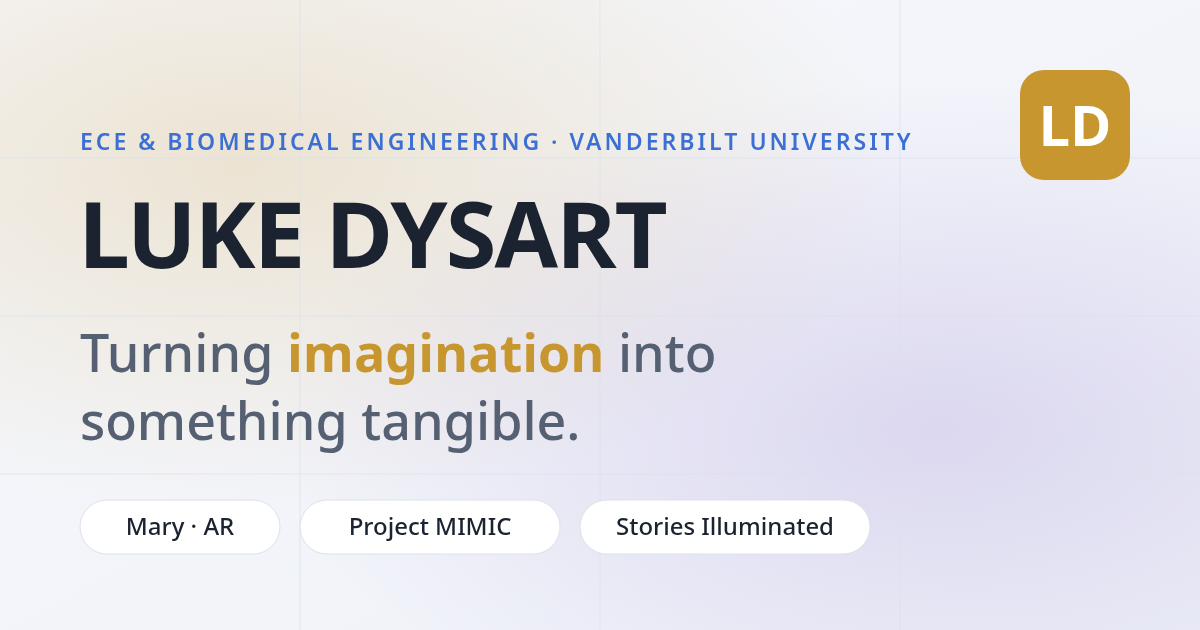
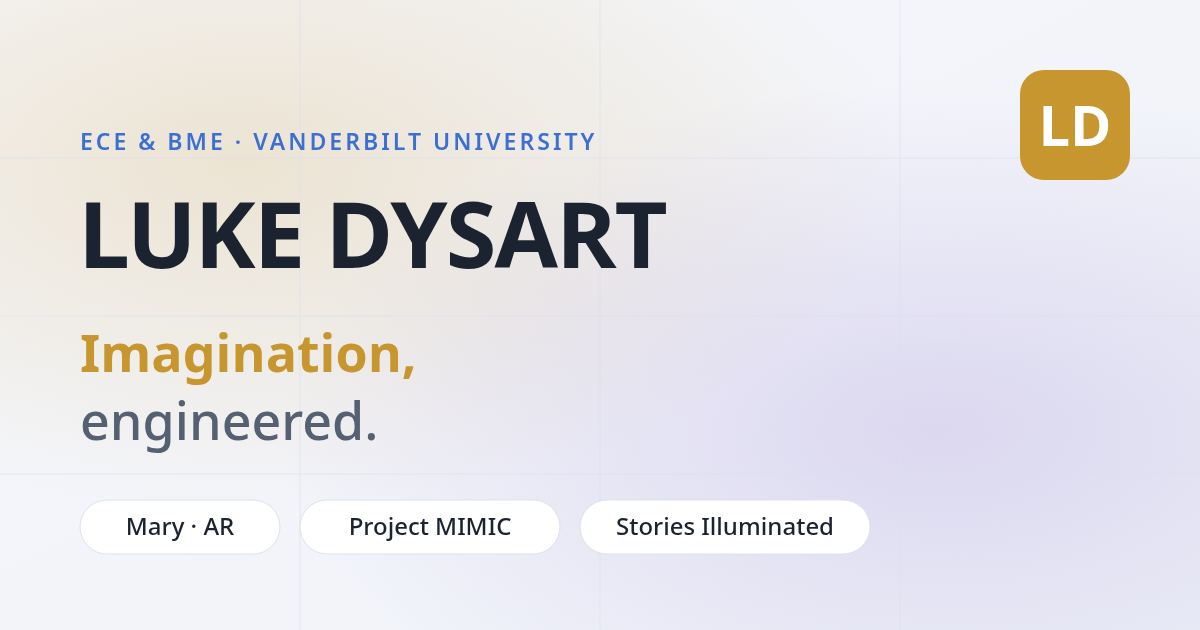
Copy: 'Imagination, engineered.' headline + 'ECE & BME' eyebrow
- Replace hero headline with 'Imagination, engineered.' (gold accent on
  'Imagination,'), updated in hero, social preview, and og:image:alt
- Tighten eyebrow to 'ECE & BME · Vanderbilt University' (consistent abbrev)
- Reword the About closing line away from the old tagline

Changed region(s): [[0.0617, 0.5127, 0.6167, 0.7238], [0.1542, 0.2111, 0.7708, 0.2413]]

diff --git a/index.html b/index.html
@@ -18,7 +18,7 @@
   <meta property="og:description" content="ECE & Biomedical Engineering at Vanderbilt, working at the intersection of art and engineering. Projects: Mary (offline medical AR), Project MIMIC (hand-mimicry robotics), Stories Illuminated." />
   <meta property="og:url" content="https://lukefdysart.github.io/Portfolio/" />
   <meta property="og:image" content="https://lukefdysart.github.io/Portfolio/assets/img/social-preview.png" />
-  <meta property="og:image:alt" content="Luke Dysart — turning imagination into something tangible." />
+  <meta property="og:image:alt" content="Luke Dysart — Imagination, engineered." />
   <meta name="twitter:card" content="summary_large_image" />
   <meta name="twitter:title" content="Luke Dysart — Engineering & Art" />
   <meta name="twitter:description" content="ECE & Biomedical Engineering at Vanderbilt — art + engineering. Mary, Project MIMIC, Stories Illuminated." />
@@ -59,9 +59,9 @@
   <section id="home" class="hero">
     <div class="hero-grid-bg"></div>
     <div class="container hero-inner">
-      <p class="hero-eyebrow">Electrical &amp; Computer · Biomedical Engineering · Vanderbilt University</p>
+      <p class="hero-eyebrow">ECE &amp; BME · Vanderbilt University</p>
       <h1 class="hero-title">
-        Turning <span class="accent">imagination</span><br />into something tangible.
+        <span class="accent">Imagination,</span><br />engineered.
       </h1>
       <p class="hero-sub">
         I work at the intersection of <strong>art and engineering</strong> — robotics, animatronics,
@@ -138,7 +138,7 @@
           </p>
           <p>
             I'm driven by curiosity, creativity, competition, and service — and by the challenge of
-            turning imagination into something tangible. You can also find some of my earlier
+            building at the seam where art and engineering meet. You can also find some of my earlier
             research on the <a href="https://geneticlogiclab.org/author/luke-dysart/" target="_blank" rel="noopener" class="inline-link">Genetic Logic Lab</a>.
           </p>
 
